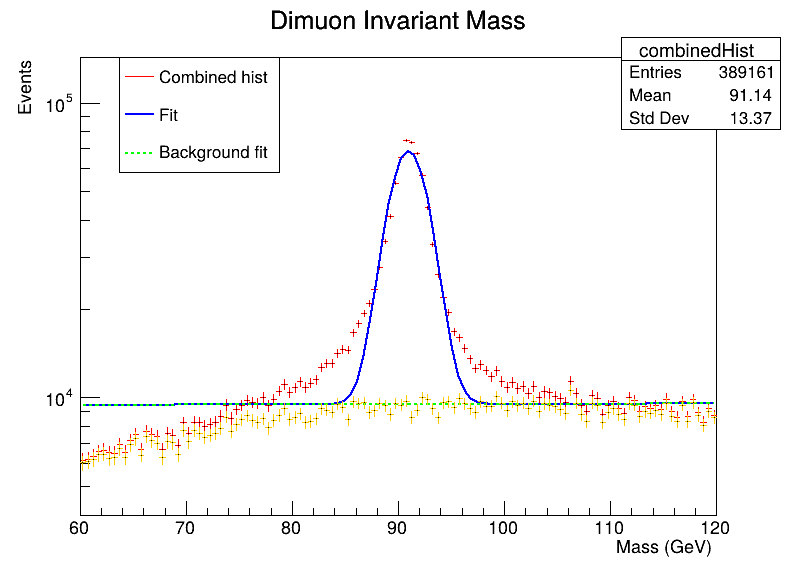
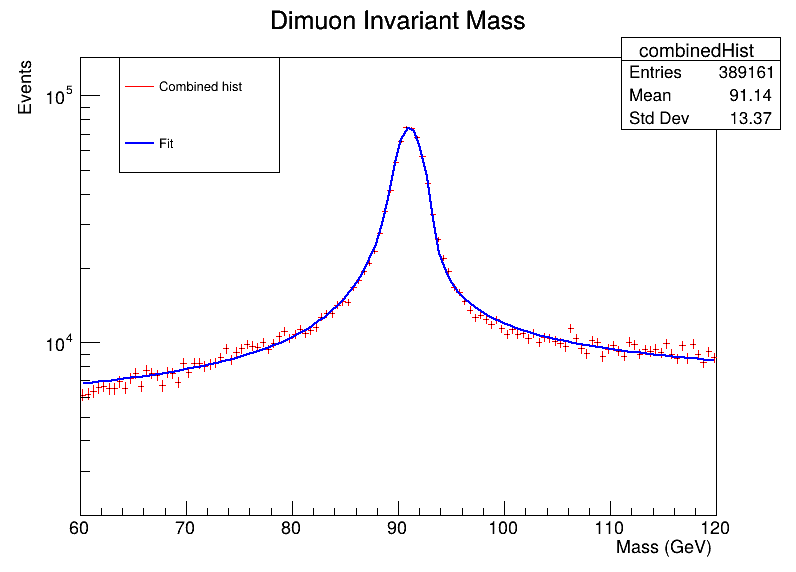
New fit function double sided crystal ball,complete analysis unfinished

diff --git a/EventGeneration/FewVariables/analysis.cpp b/EventGeneration/FewVariables/analysis.cpp
@@ -23,6 +23,7 @@ const std::vector<double> scaleFactors = {
     //4.542*0.6,   // <-- scale for signal file (See read.me to see how I got them)
     //0.062 *0.6 // <-- scale for background file
    3.684, 17.401
+   //22.82, 0.29
 };
 
 // Mass range for histogram and fit
@@ -37,6 +38,45 @@ const double signalMassWindow = 10.0; // +/- 10 GeV window, adjust as needed
 // Function prototypes
 void buildHistogram(TH1F* hist);
 double integrateFunction(TF1* func, double low, double high);
+
+Double_t doubleCB(Double_t *x, Double_t *par) {
+    // par[0] = Norm
+    // par[1] = Mean
+    // par[2] = Sigma
+    // par[3] = AlphaL
+    // par[4] = nL
+    // par[5] = AlphaR
+    // par[6] = nR
+    // par[7] = offset
+
+    Double_t xx = x[0];
+    Double_t norm = par[0];
+    Double_t mean = par[1];
+    Double_t sigma = par[2];
+    Double_t alphaL = par[3];
+    Double_t nL = par[4];
+    Double_t alphaR = par[5];
+    Double_t nR = par[6];
+    Double_t offset = par[7];
+
+    Double_t t = (xx - mean) / sigma;
+    Double_t result = 0.0;
+
+    if (t < -alphaL) {
+        Double_t A = pow(nL / fabs(alphaL), nL) * exp(-0.5 * alphaL * alphaL);
+        Double_t B = nL / fabs(alphaL) - fabs(alphaL);
+        result = norm * A * pow(B - t, -nL) + offset;
+    }
+    else if (t > alphaR) {
+        Double_t A = pow(nR / fabs(alphaR), nR) * exp(-0.5 * alphaR * alphaR);
+        Double_t B = nR / fabs(alphaR) - fabs(alphaR);
+        result = norm * A * pow(B + t, -nR)+ offset;
+    }
+    else {
+        result = norm * exp(-0.5 * t * t)+ offset;
+    }
+    return result;
+    }
 
 int main() {
     TH1F* combinedHist = new TH1F("combinedHist", "Dimuon Invariant Mass;Mass (GeV);Events", histBins, massMin, massMax);
@@ -155,7 +195,7 @@ int main() {
     sig_Hist->Draw("Same");
     bg_Hist->Draw("Same");
 
-    TLegend* legend = new TLegend(0.1, 0.7, 0.3, 0.9);  // top-right corner
+    TLegend* legend = new TLegend(0.15, 0.7, 0.35, 0.9);  // top-left corner
     legend->AddEntry(combinedHist, "Combined", "l");
     legend->AddEntry(sig_Hist, "Signal", "l");
     legend->AddEntry(bg_Hist, "Background", "l");
@@ -167,68 +207,91 @@ int main() {
     // Fit combined histogram in the mass range
     // Define signal+background function:
     // For example: background = exponential, signal = Gaussian (adjust as needed)
-    TF1* fitFunc = new TF1("fitFunc", 
-        "[0]*TMath::Gaus(x,[1],[2],true) + [3] + [4]*exp(-[5]*x)", massMin, massMax);
+    // TF1* fitFunc = new TF1("fitFunc", 
+    //     "[0]*TMath::Gaus(x,[1],[2],true) + [3] + [4]*exp(-[5]*x)", massMin, massMax);
 
+    
     // Initial parameter guesses:
+    // fitFunc->SetParameters(
+    //     combinedHist->GetMaximum(),  // Gaussian amplitude guess
+    //     signalMassCenter,            // Mean near Z mass
+    //     2.5,                        // Width guess (GeV)
+    //     100,                         // Background  constant term
+    //     0.0,                          // exp decay amplitude
+    //     0.0                          // decay factor
+    // );
+
+    // TF1* bgFunc = new TF1("bgFunc", "[0]+[1] * exp(-[2]*x)", massMin, massMax);
+    // bgFunc->SetParameters(fitFunc->GetParameter(3), fitFunc->GetParameter(4),
+    //                      fitFunc->GetParameter(5));
+    
+
+
+
+    
+    TF1 *fitFunc = new TF1("fitFunc", doubleCB, massMin, massMax, 8);
+    fitFunc->SetParNames("Norm", "Mean", "Sigma", "AlphaL", "nL", "AlphaR", "nR", "offset");
     fitFunc->SetParameters(
-        combinedHist->GetMaximum(),  // Gaussian amplitude guess
-        signalMassCenter,            // Mean near Z mass
-        2.5,                        // Width guess (GeV)
-        800,                         // Background  constant term
-        0.0,                          // exp decay amplitude
-        0.0                          // decay factor
+    1e5,    // Norm
+    91.1,   // Mean
+    2.0,    // Sigma
+    1.5,    // AlphaL
+    3.0,    // nL
+    2.0,    // AlphaR
+    4.0,    // nR
+    1e3     // Offset (background floor)
     );
+    // TF1* bgFunc = new TF1("bgFunc", "[0]+[1] * exp(-[2]*x)", massMin, massMax);
+    // bgFunc->SetParameters(5000., 0.1, -0.01);
+
+
 
     combinedHist->Fit(fitFunc, "R");
 
-    // Background-only function (exponential part only)
-   TF1* bgFunc = new TF1("bgFunc", "[0]+[1] * exp(-[2]*x)", massMin, massMax);
-    bgFunc->SetParameters(fitFunc->GetParameter(3), fitFunc->GetParameter(4),
-                         fitFunc->GetParameter(5));
+   
 
     // Define integration window around signal peak
-    double lowBound = signalMassCenter - signalMassWindow;
-    double highBound = signalMassCenter + signalMassWindow;
+    // double lowBound = signalMassCenter - signalMassWindow;
+    // double highBound = signalMassCenter + signalMassWindow;
 
-    double totalIntegral = fitFunc->Integral(lowBound, highBound) / combinedHist->GetBinWidth(1);
-    double bgIntegral = bgFunc->Integral(lowBound, highBound) / combinedHist->GetBinWidth(1);
-    double signalIntegral = totalIntegral - bgIntegral;
+    // double totalIntegral = fitFunc->Integral(lowBound, highBound) / combinedHist->GetBinWidth(1);
+    // double bgIntegral = bgFunc->Integral(lowBound, highBound) / combinedHist->GetBinWidth(1);
+    // double signalIntegral = totalIntegral - bgIntegral;
 
-    // Statistical significance (naive)
-    double significance = signalIntegral / std::sqrt(bgIntegral);
+    // // Statistical significance (naive)
+    // double significance = signalIntegral / std::sqrt(bgIntegral);
 
     // Output results
-    std::cout << "Integration window: [" << lowBound << ", " << highBound << "] GeV" << std::endl;
-    std::cout << "Total events in window (signal+background): " << totalIntegral << std::endl;
-    std::cout << "Background events in window: " << bgIntegral << std::endl;
-    std::cout << "Signal events in window (total - background): " << signalIntegral << std::endl;
-    std::cout << "Estimated significance (S / sqrt(B)): " << significance << std::endl;
+    // std::cout << "Integration window: [" << lowBound << ", " << highBound << "] GeV" << std::endl;
+    // std::cout << "Total events in window (signal+background): " << totalIntegral << std::endl;
+    // std::cout << "Background events in window: " << bgIntegral << std::endl;
+    // std::cout << "Signal events in window (total - background): " << signalIntegral << std::endl;
+    // std::cout << "Estimated significance (S / sqrt(B)): " << significance << std::endl;
 
     // Save plot with fit
     TCanvas* c = new TCanvas("c", "Dimuon Mass Fit", 800, 600);
-    combinedHist->SetMinimum(4000);
+    combinedHist->SetMinimum(2000);
     combinedHist->Draw();
     c->SetLogy();
     fitFunc->SetLineColor(kBlue);
     fitFunc->Draw("same");
-    bgFunc->SetLineColor(kGreen);
-    bgFunc->SetLineStyle(2);
-    bgFunc->Draw("same");
-    bg_Hist->SetLineColor(kOrange);
-    bg_Hist->Draw("Same");
+    // bgFunc->SetLineColor(kGreen);
+    // bgFunc->SetLineStyle(2);
+    // bgFunc->Draw("same");
+    // bg_Hist->SetLineColor(kOrange);
+    // bg_Hist->Draw("Same");
 
     TLegend* legend2 = new TLegend(0.15, 0.7, 0.35, 0.9);  // top-left corner
     legend2->AddEntry(combinedHist, "Combined hist", "l");
     legend2->AddEntry(fitFunc, "Fit", "l");
-    legend2->AddEntry(bgFunc, "Background fit", "l");
+    //legend2->AddEntry(bgFunc, "Background fit", "l");
     legend2->Draw();
 
     c->SaveAs("dimuon_mass_fit.png");
 
     delete combinedHist;
     delete fitFunc;
-    delete bgFunc;
+    //delete bgFunc;
     delete c;
     
 

diff --git a/EventGeneration/FewVariables/makesignal.cpp b/EventGeneration/FewVariables/makesignal.cpp
@@ -12,13 +12,13 @@ int main() {
     
     PythiaParallel pythia;
     
- 
     pythia.readString("WeakSingleBoson:ffbar2gmZ=on");
     pythia.readString("23:onMode = off");
     pythia.readString("23:onIfMatch = 13 -13");
     pythia.readString("PhaseSpace:mHatMin = 60.");
     pythia.readString("PhaseSpace:mHatMax = 120.");
     pythia.readString("Beams:eCM = 13600");
+
     pythia.init();
     int passedEvents=0;
 
@@ -36,12 +36,7 @@ int main() {
 
     bool HLT_DoubleIsoMu20_eta2p1;
     tree->Branch("HLT_DoubleIsoMu20_eta2p1", &HLT_DoubleIsoMu20_eta2p1);
-    //tree->Branch("px", &px);
-    //tree->Branch("py", &py);
-    //tree->Branch("pz", &pz);
-    //tree->Branch("e", &e);
     tree->Branch("Pt", &Pt);
-    //tree->Branch("Eta", &Eta);
     tree->Branch("Theta", &Theta);
     tree->Branch("Phi", &Phi);
     tree->Branch("Id", &Id);
@@ -77,39 +72,6 @@ int main() {
         tree->Fill();
   });
 
-  //DO NOT use this just here for reference
-    // // Event loop
-    // const int nEvents = 10000;
-    // for (int iEvent = 0; iEvent < nEvents; ++iEvent) {
-    //     if (!pythia.next()) continue;
-    //     ++passedEvents;
-
-    //     // Clear previous event data
-    //     Pt.clear(); Theta.clear(); Phi.clear(); Id.clear();
-    //     int good_muons = 0;
-    //     for (int i = 0; i < pythia.event.size(); ++i) {
-    //         const Particle& p = pythia.event[i];
-    //         if (!p.isFinal()) continue;
-
-    //         int id = p.id();
-    //         TLorentzVector vec(p.px(), p.py(), p.pz(), p.e());
-            
-    //         if (abs(id) == 13 or abs(id) == 211) {  // muons and charged pions
-    //             Pt.push_back(p.pT());
-    //             Theta.push_back(p.theta());
-    //             Phi.push_back(p.phi());
-    //             Id.push_back(id);
-    //             if (abs(id) == 13 and abs(vec.Eta()) < 2.1 and vec.Pt() > 20) {  //setting up trigger
-    //                 good_muons++;
-    //         }
-    //         }
-    //     }
-    //     if (good_muons >=2){
-    //         HLT_DoubleIsoMu20_eta2p1 = 1;
-    //     }
-    //     else HLT_DoubleIsoMu20_eta2p1 = 0;
-    //     tree->Fill();
-    // }
 
     // Write and clean up
     outFile->cd();

diff --git a/EventGeneration/FewVariables/makebackground.cpp b/EventGeneration/FewVariables/makebackground.cpp
@@ -13,18 +13,13 @@ int main() {
 
     pythia.readString("Top:gg2ttbar = on");
     pythia.readString("Top:qqbar2ttbar = on");
-
-    // pythia.readString("6:onMode = off");
-    // pythia.readString("6:onIfMatch = 24 5");
-
     pythia.readString("24:onMode = off");
     pythia.readString("24:onIfMatch = -13 14");
     pythia.readString("-24:onMode = off");
     pythia.readString("-24:onIfMatch = 13 -14");
-
     pythia.readString("PhaseSpace:mHatMin = 60.");
-    //pythia.readString("PhaseSpace:mHatMax = 120.");
     pythia.readString("Beams:eCM = 13600");
+    
     pythia.init();
     int passedEvents=0;
 
